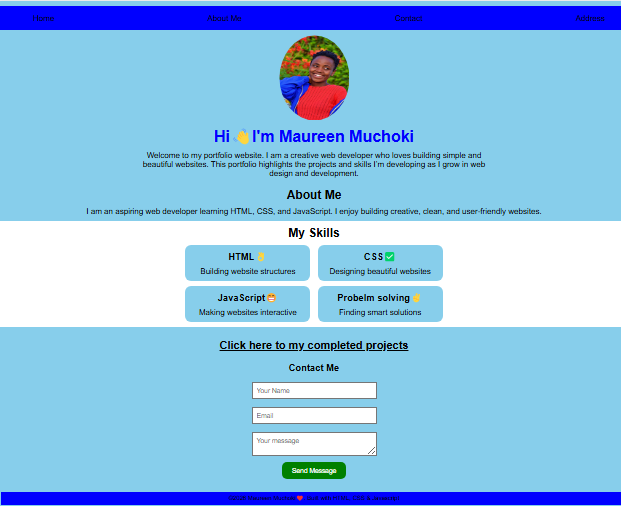
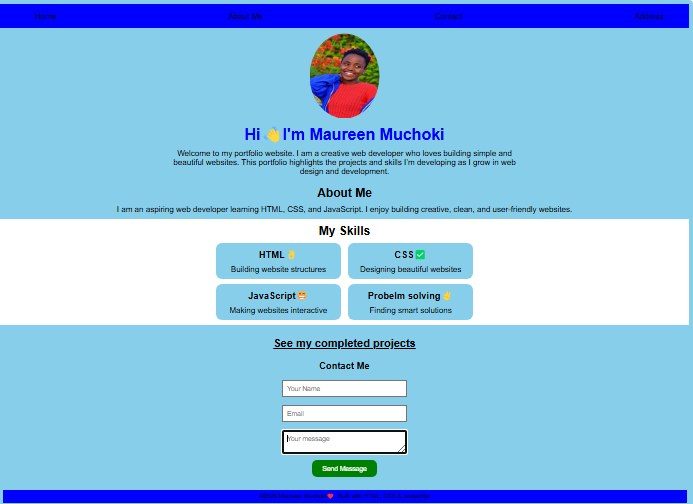
Update index.html, portfolio screenshot, and add new folder

diff --git a/index.html b/index.html
@@ -64,7 +64,7 @@
 
 <div>
     <a href="projects.html" style="font-size: 22px; font-weight: bold; text-decoration: underline; color: black;">
-        Click here to my completed projects
+        See my completed projects
     </a>
 </div>
 
